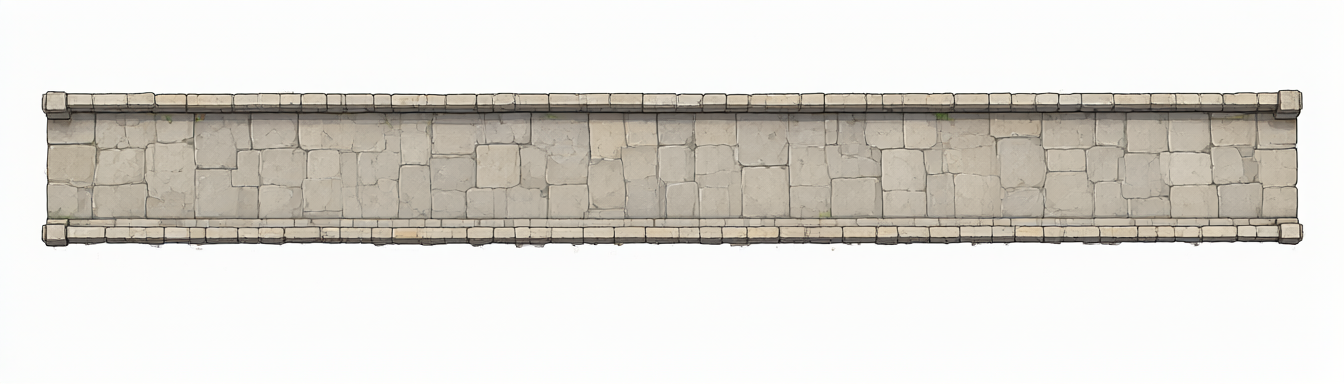
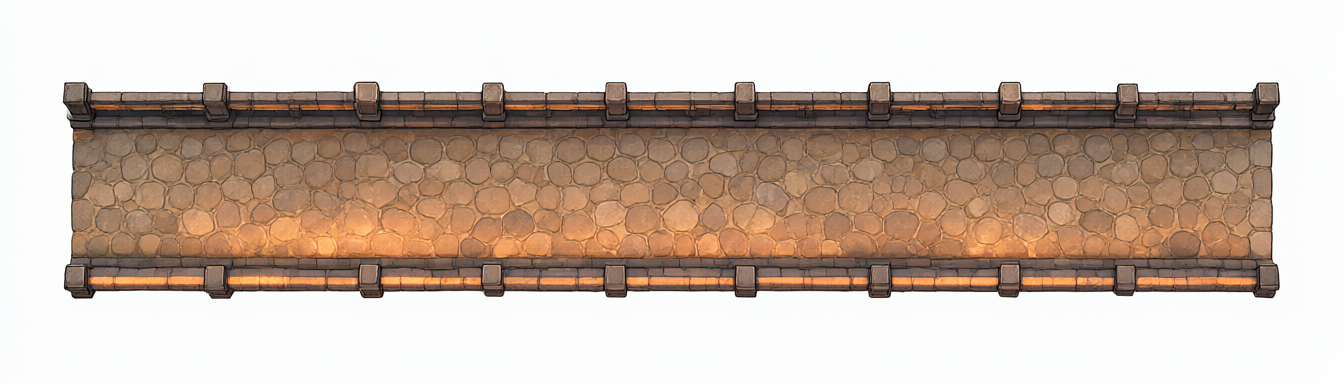
그래픽 점검 3: 구멍을 흙 둔덕(햇빛·그늘·자갈·깊이)으로, 용암 돌다리 새 그림(자갈 길·난간), 용암은 굳은 딱지 판과 빛나는 틈

diff --git a/unity/GirlAdventure/Assets/Scripts/View/GameRoot.Holes.cs b/unity/GirlAdventure/Assets/Scripts/View/GameRoot.Holes.cs
@@ -34,13 +34,37 @@ namespace GirlAdventure.View
             var R = new Raster(Painter.Tile, Painter.Tile);
             Color32 shade = cave ? new Color32(20, 14, 26, 90) : k == MapKind.Snow ? new Color32(60, 80, 130, 80) : k == MapKind.Lava ? new Color32(30, 10, 6, 110) : new Color32(40, 26, 12, 90);
             Color32 crack = cave ? Raster.Hex("#2A2232") : k == MapKind.Snow ? Raster.Hex("#8EA4C4") : k == MapKind.Lava ? Raster.Hex("#FF7A2A") : Raster.Hex("#4A3420");   // 눈밭은 푸른 금, 용암 땅은 주황빛 금
-            R.Ellipse(24, 30, 20, 12, shade);                                  // 가장자리가 살짝 어둡게 번진 땅
-            R.Ellipse(24, 30, 16.5f, 9.5f, Raster.Hex("#0C0810"));             // 구멍
-            R.Ellipse(24, 26.5f, 13, 4, cave ? Raster.Hex("#2E2638") : Raster.Hex("#3A2814"));   // 위쪽 안벽 (조금 보인다)
-            R.Ellipse(24, 31, 13, 7, Raster.Hex("#05030A"));
-            R.Line(6, 28, 1, 25, 1.4f, crack);                                 // 금
-            R.Line(41, 33, 47, 36, 1.4f, crack);
-            R.Line(40, 25, 44, 21, 1.2f, crack);
+            static Color32 Mul(Color32 c, float f) => new Color32((byte)Mathf.Min(255, c.r * f), (byte)Mathf.Min(255, c.g * f), (byte)Mathf.Min(255, c.b * f), c.a);
+            // 2026-10-10 그래픽 점검: 흙이 둥글게 쌓인 둔덕(위는 밝고 아래는 그늘, 자갈) + 안쪽은 깊어질수록 어둡게
+            Color32 soil = k == MapKind.Snow ? Raster.Hex("#D8E4F4") : k == MapKind.Desert ? Raster.Hex("#D8B070") : k == MapKind.Lava ? Raster.Hex("#5A4640") : cave ? Raster.Hex("#5A5068") : Raster.Hex("#8A6236");
+            R.Ellipse(25, 33, 21, 11, shade);                                  // 바닥 그늘
+            for (int py = 14; py < 46; py++)
+                for (int px = 1; px < 47; px++)
+                {
+                    float ux = (px - 24) / 20f, uy = (py - 30) / 12f, r = Mathf.Sqrt(ux * ux + uy * uy);
+                    if (r > 1) continue;
+                    float n = Mathf.PerlinNoise(px * .3f, py * .3f);
+                    Color32 c;
+                    if (r > .68f)                                              // 흙 둔덕: 위쪽은 햇빛, 아래쪽은 그늘
+                    {
+                        float lit = Mathf.Clamp01(.6f - uy * .7f);
+                        c = Color32.Lerp(Mul(soil, .62f), Mul(soil, 1.12f), Mathf.Clamp01(lit * .8f + n * .25f));
+                        if (r > .94f) c = Mul(c, .82f);
+                    }
+                    else                                                       // 구멍 안: 위쪽 안벽은 흙빛이 조금, 아래로 갈수록 깜깜
+                    {
+                        float depth = Mathf.Clamp01((r / .68f) * .6f + (uy + 1) * .35f);
+                        c = Color32.Lerp(Mul(soil, .28f), Raster.Hex("#05030A"), uy < -.2f ? depth * .7f : .5f + depth * .5f);
+                    }
+                    R.Blend(px, py, c);
+                }
+            foreach (var (gx, gy, gr) in new[] { (7f, 33f, 1.8f), (40f, 35f, 1.6f), (34f, 20f, 1.3f), (12f, 23f, 1.2f) })   // 자갈
+            {
+                R.Circle(gx, gy, gr, Mul(soil, .55f));
+                R.Circle(gx - .4f, gy - .5f, gr * .55f, Mul(soil, 1.2f));
+            }
+            R.Line(4, 36, 0, 39, 1.2f, crack);                                 // 금
+            R.Line(44, 25, 47, 22, 1.1f, crack);
             if (empty)
             {
                 R.Ellipse(24, 32, 9, 4.5f, Raster.Hex(cave ? "#3A3240" : "#3E2C1C"));    // 들여다본 뒤: 얕은 바닥

diff --git a/tools/props_gen.py b/tools/props_gen.py
@@ -66,7 +66,7 @@ PROPS = [
     ("snowpine0", "One snow-covered green fir tree with thick snow on its branches.", 54, 2),
     ("snowpine1", "One small snow-covered fir tree, slightly tilted, with a little snow pile at its base.", 54, 5),
     ("darkbox", "One mysterious dark wooden box with purple glowing cracks and a small lock, spooky but cute, a few purple wisps rising.", 46, 2),
-    ("stonebridge", "One long flat horizontal stone bridge walkway seen from above (top-down RPG map tile style), going left to right, gray stone slabs with a low stone railing along the top edge and the bottom edge. Only the bridge itself, nothing under it, no water, no lava, no ground. Very wide and thin shape.", 440, 7, (1344, 384)),
+    ("stonebridge", "One long horizontal cobblestone bridge seen from above at a slight angle (top-down RPG map style), going left to right: a walkway of warm brown and grey rounded cobblestones, sturdy dark stone railings with square posts along the top edge and the bottom edge, a soft orange glow reflected on the bottom side. Only the bridge itself, no lava, no ground. Very wide and thin shape.", 440, 11, (1344, 384)),
     ("lavarock0", "One big dark volcanic boulder of black basalt with thin glowing orange cracks.", 52, 2),
     ("lavarock1", "One cluster of two dark volcanic rocks of black basalt with a little glowing orange lava in the cracks.", 52, 4),
     # 보물상자 짝 (닫힘 seed 4 / 열림은 '열린 상자' 설명으로 seed 9 — 48칸 텍스처에 들어가게 폭 42)

diff --git a/unity/GirlAdventure/Assets/Scripts/View/MapPainter.cs b/unity/GirlAdventure/Assets/Scripts/View/MapPainter.cs
@@ -516,7 +516,10 @@ namespace GirlAdventure.View
                             float flow = Noise(px / 18f + py / 40f, py / 18f, 45);
                             var lc = Lerp(l0, l1, flow);
                             lc = Lerp(lc, l2, Smooth(.65f, .9f, flow) * .8f);
-                            if (Noise(px / 9f, py / 9f, 46) > .72f + d * .1f) lc = Lerp(lc, crust, .7f);   // 검은 딱지
+                            lc = Lerp(lc, l2, d * .22f);                                                  // 가운데일수록 더 뜨겁게
+                            float pl = Noise(px / 15f + flow * .6f, py / 15f, 46), th = .63f + d * .08f;      // 식어 굳은 딱지 판 (2026-10-10: 점 무늬 대신 판과 빛나는 틈)
+                            if (pl > th) lc = Lerp(lc, Lerp(crust, H("#2E100A"), Fbm(px, py, 47)), Smooth(th, th + .05f, pl) * .88f);
+                            else if (pl > th - .035f) lc = Lerp(lc, l2, (1 - (th - pl) / .035f) * .75f);
                             float edge = 1 - Mathf.Abs(lw - .52f) / .05f;                                  // 빛나는 테두리
                             if (edge > 0) lc = Lerp(lc, l2, edge * .9f);
                             c = lc;
